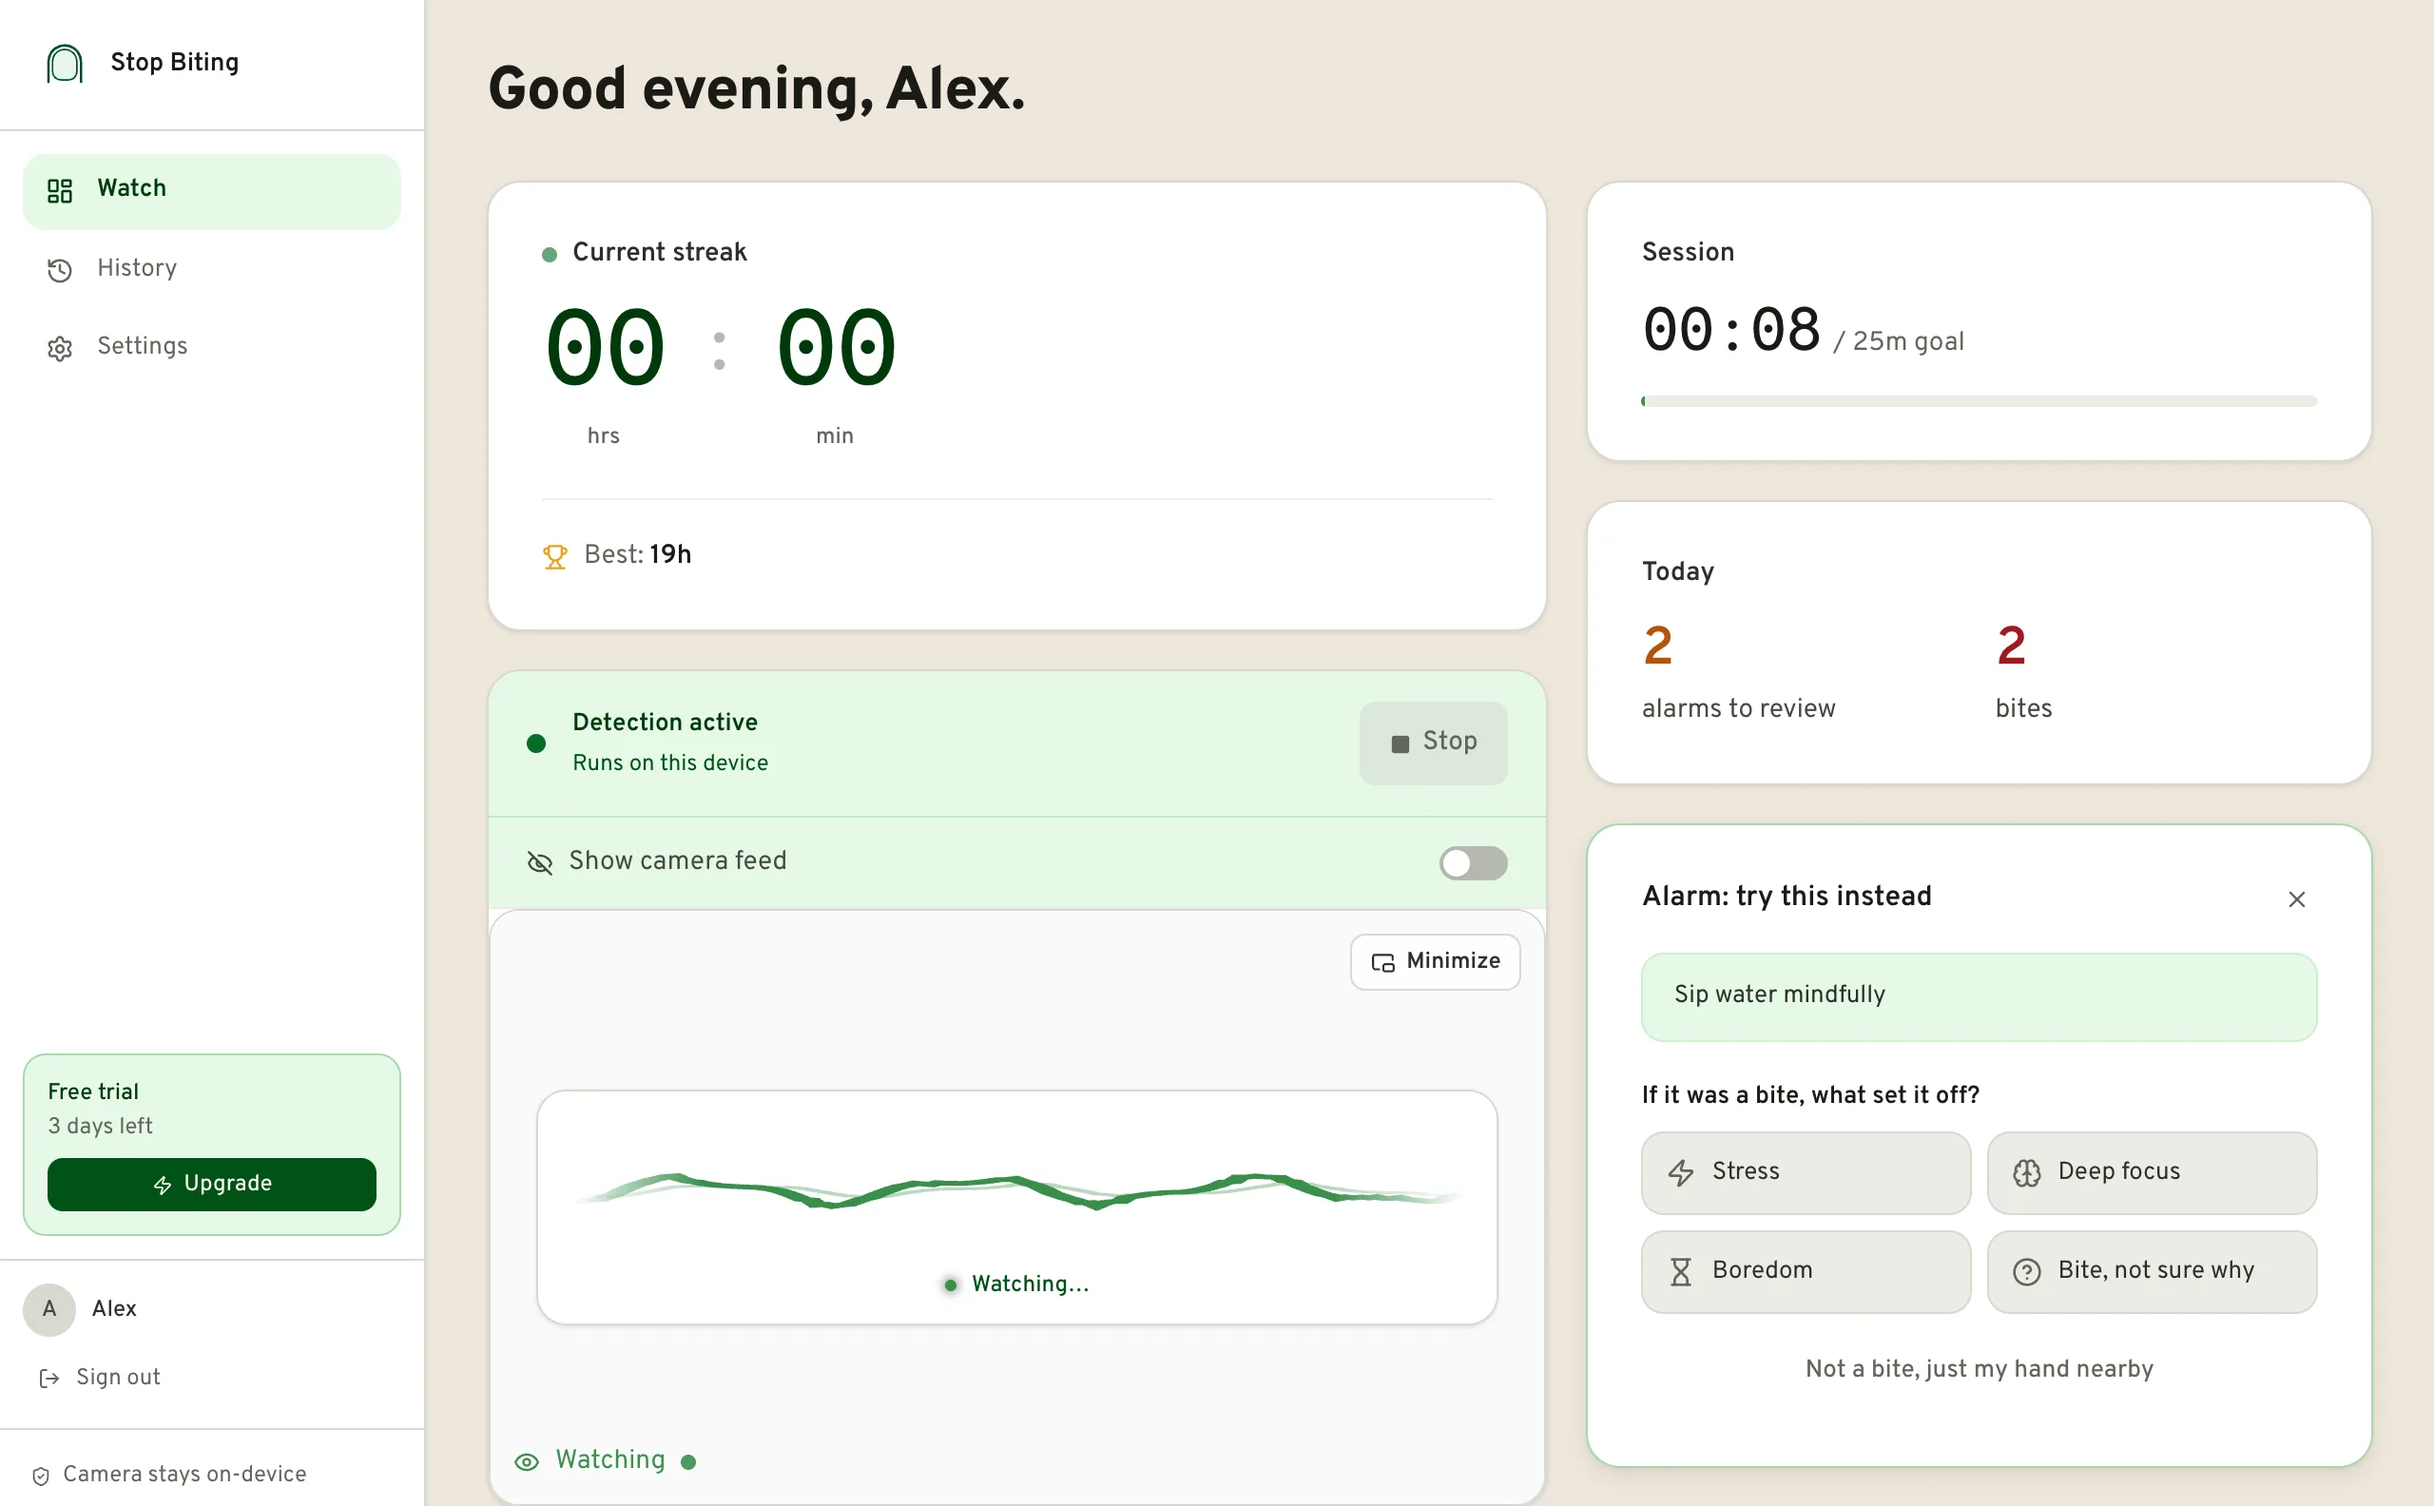
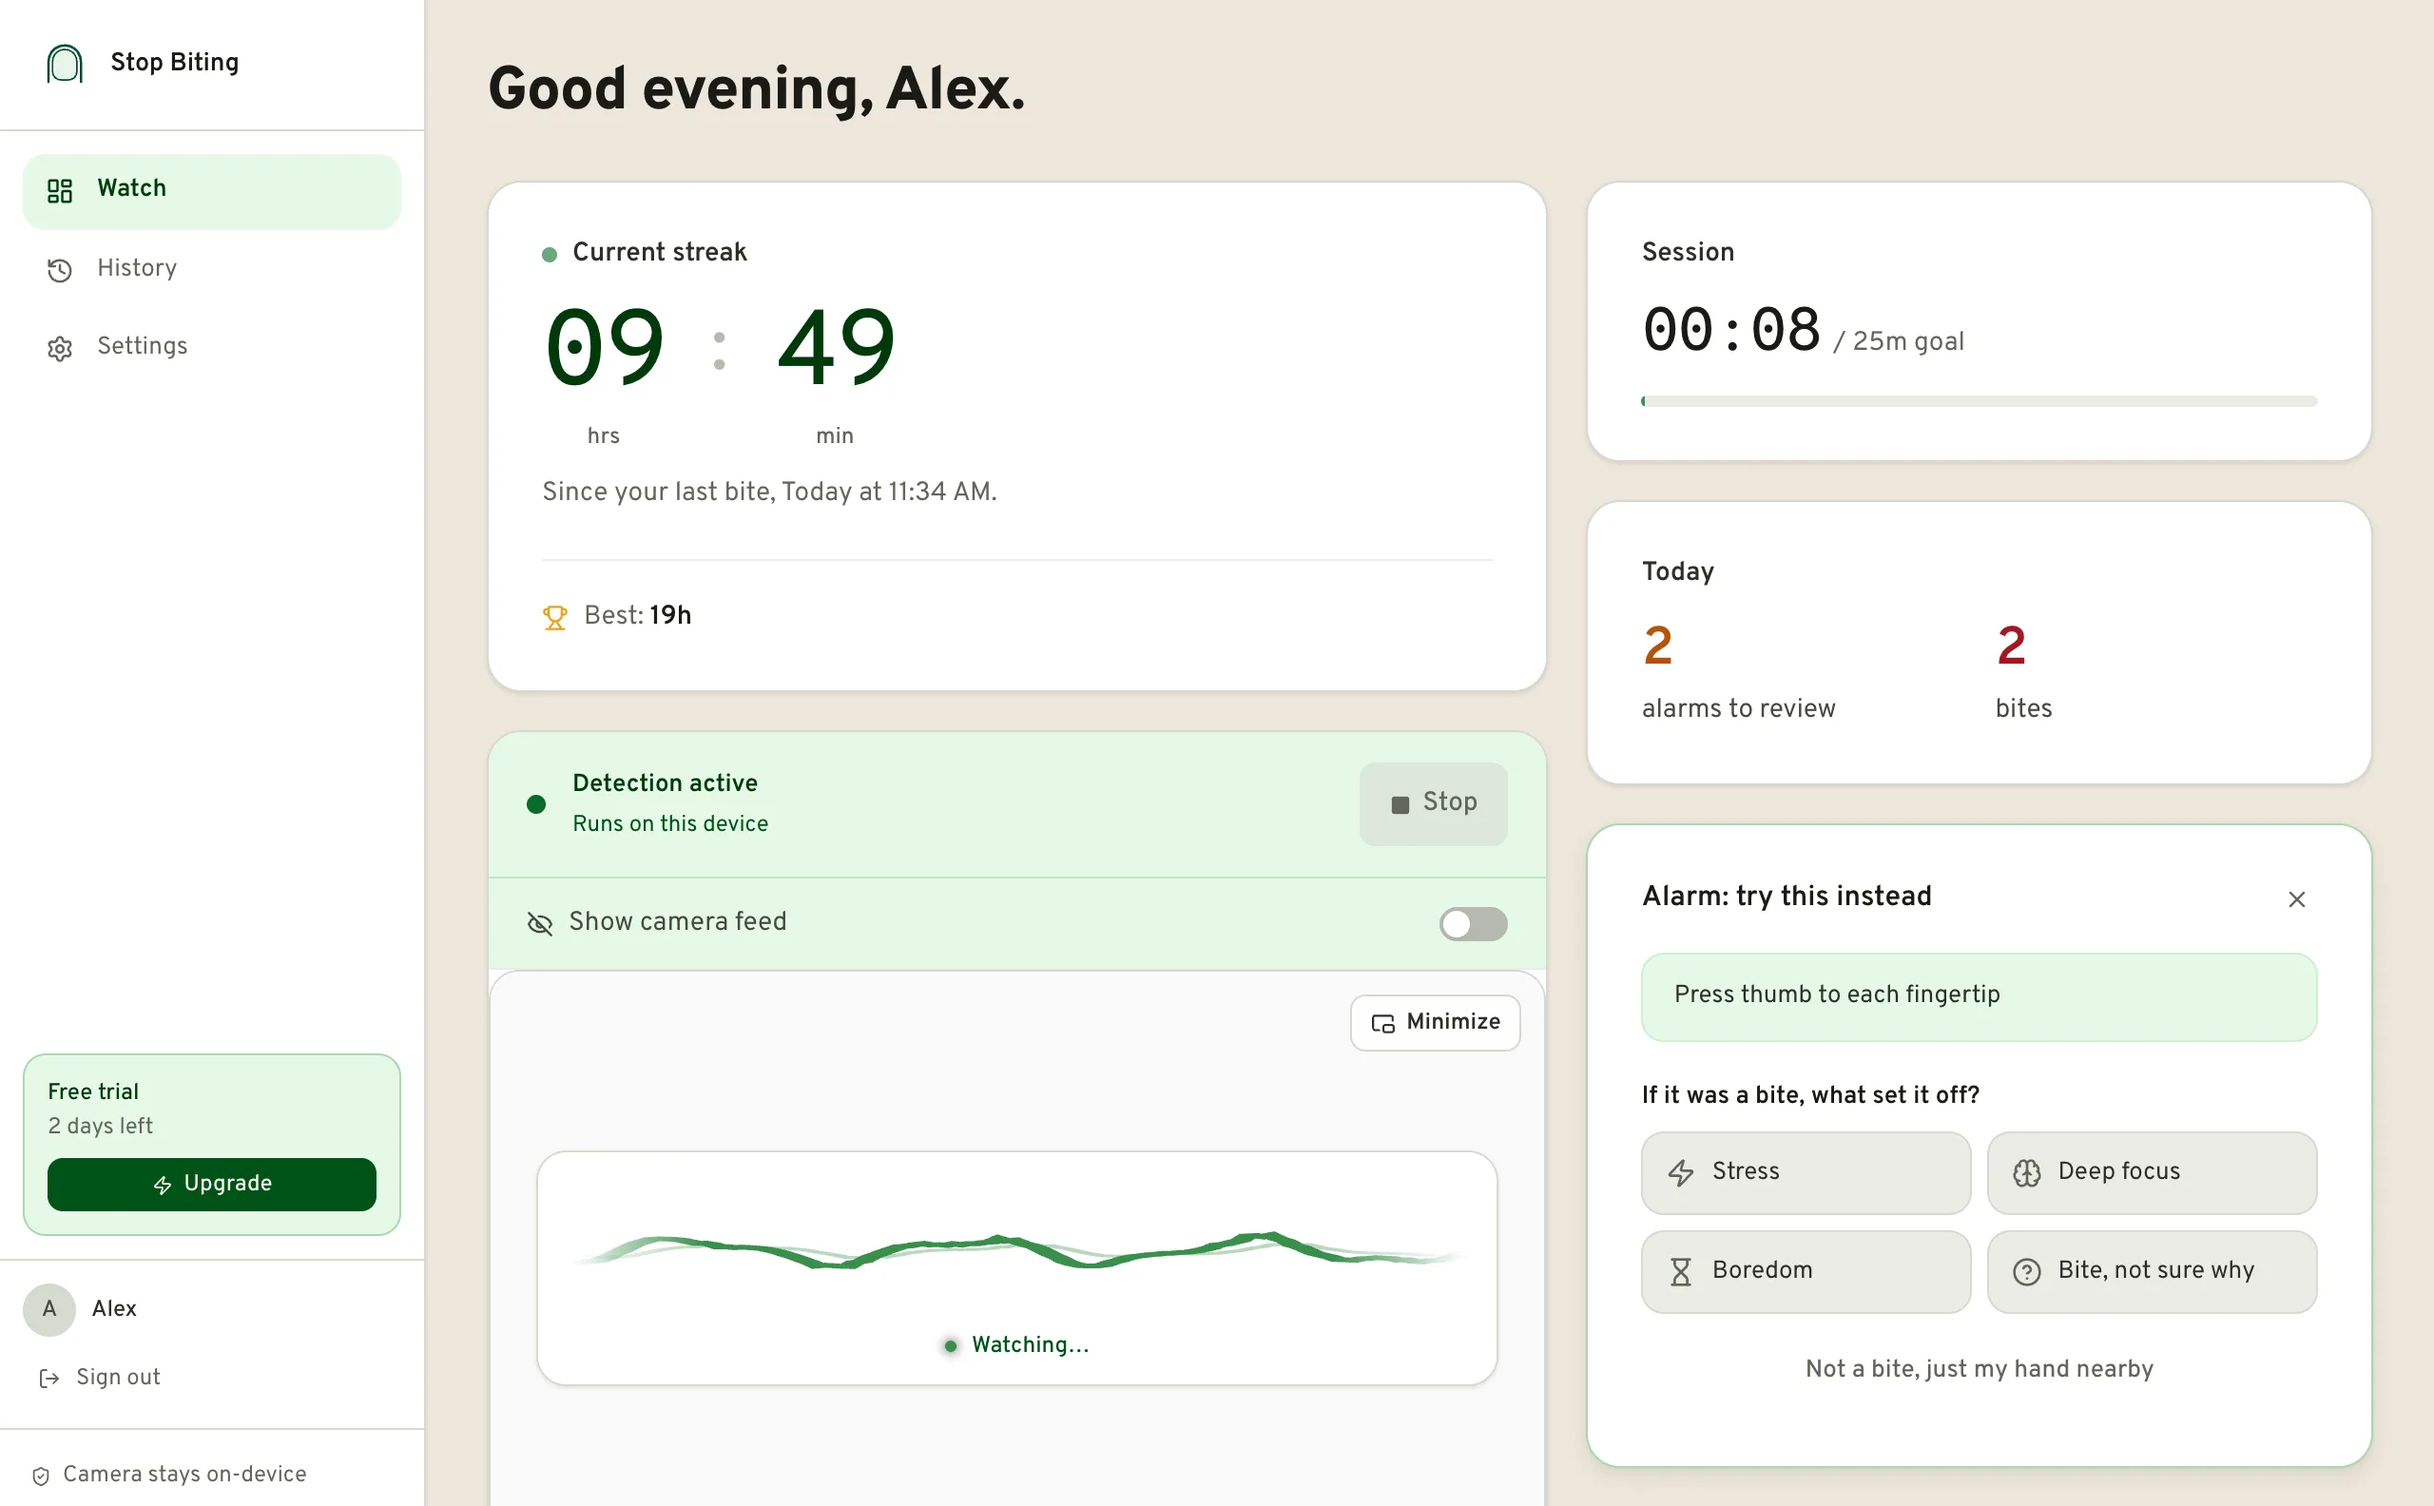
design(loop10 9/10): the streak card says what it counts from
'Current streak 00 : 00' with 'Best: —' gave a new account no idea what it was counting, and gave nobody the moment it started. Under the ticker the card now says 'Since your last bite, Today at 11:34 AM.' or, before any bite, 'Since you started. A bite resets it; an alarm doesn't.', and an empty best reads 'none yet'. The homepage screenshot seed now sets lastBiteTime as the app itself derives it, so the Watch shot shows a real running streak; its alt text changes from 'the streak reset' to 'the current streak counted from the last bite' to match. Checked light, dark and a new account; homepage shots regenerated with the trimmed capture.

diff --git a/src/components/dashboard/StreakHero.tsx b/src/components/dashboard/StreakHero.tsx
@@ -1,5 +1,7 @@
 import { Trophy } from 'lucide-react';
 import { useStreak } from '../../hooks/useStreak';
+import { useAppStore } from '../../store/useAppStore';
+import { formatDate, formatTime } from '../../utils/time';
 
 function Segment({ value, label }: { value: number; label: string }) {
   return (
@@ -24,6 +26,12 @@ function Colon() {
 
 export function StreakHero() {
   const { streakDays, streakHours, streakMinutes, formattedBest, isGreat } = useStreak();
+  const lastBiteTime = useAppStore(s => s.lastBiteTime);
+  // "00 : 00" alone did not say what it counts from; on a new account it
+  // looked broken. Name the start, and what resets it.
+  const since = lastBiteTime
+    ? `Since your last bite, ${formatDate(lastBiteTime)} at ${formatTime(lastBiteTime)}.`
+    : "Since you started. A bite resets it; an alarm doesn't.";
 
   const ringClass = isGreat
     ? 'ring-2 ring-forest-400/40 dark:ring-forest-500/30 shadow-[0_0_24px_oklch(58%_0.130_148/0.15)]'
@@ -54,11 +62,12 @@ export function StreakHero() {
         <Colon />
         <Segment value={streakMinutes} label="min" />
       </div>
+      <p className="mt-3 text-sm text-stone-500 dark:text-stone-400">{since}</p>
 
       {/* Best streak */}
       <div className="mt-6 pt-5 border-t border-stone-100 dark:border-ink-400 flex items-center gap-2 text-stone-500 dark:text-stone-400 text-sm">
         <Trophy size={14} className="text-amber-400" />
-        <span>Best: <span className="font-semibold text-stone-800 dark:text-stone-100">{formattedBest || '—'}</span></span>
+        <span>Best: <span className="font-semibold text-stone-800 dark:text-stone-100">{formattedBest || 'none yet'}</span></span>
       </div>
     </div>
   );

diff --git a/src/pages/Landing.tsx b/src/pages/Landing.tsx
@@ -247,7 +247,7 @@ export function Landing({ authError = null, onDismissAuthError }: { authError?: 
                     height={792}
                     fetchPriority="high"
                     decoding="async"
-                    alt="The Stop Biting Watch screen right after a catch: detection running with the camera feed hidden, the streak reset, best streak 19 hours, and a card suggesting something to do with your hands instead, then asking whether it was a bite and what set it off: stress, deep focus, boredom or not sure."
+                    alt="The Stop Biting Watch screen right after a catch: detection running with the camera feed hidden, the current streak counted from the last bite, best streak 19 hours, and a card suggesting something to do with your hands instead, then asking whether it was a bite and what set it off: stress, deep focus, boredom or not sure."
                     className="w-full rounded-lg border border-[color:var(--sg-rule)]"
                   />
                   <figcaption className="sg-note mt-2">

diff --git a/tasks/design-loop-10.md b/tasks/design-loop-10.md
@@ -1,6 +1,6 @@
 # Design loop, round 10 (10 iterations, every 5 min)
 
-iterations: 8
+iterations: 9
 
 ## Backlog
 - 10: Final short review and fixes; report.
@@ -14,3 +14,4 @@ iterations: 8
 - 6/10: text-wrap: balance on sg-h3 + FAQ questions, pretty on sg-small/sg-note; guide titles block
 - 7/10: '0 bytes' and '(PubMed)' no longer break apart (citation links inline-block)
 - 8/10: FAQ to Featured guides gap halved (guides section pt removed)
+- 9/10: streak card: 'Since your last bite, <when>' / 'Since you started'; best 'none yet'; shots + alt updated
